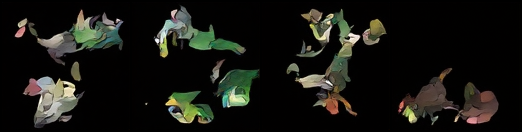
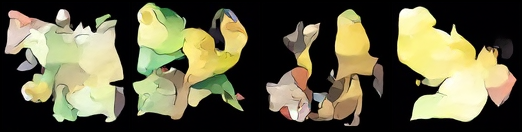
Results of more training

diff --git a/README.md b/README.md
@@ -5,7 +5,7 @@
 [![LightWeight](https://img.shields.io/badge/Size-41Ko-brightgreen?logo=feather&style=flat-square)](https://github.com)
 [![Pokémon](https://img.shields.io/badge/Pokémon-API-FFCB05?logo=pokemon&logoColor=white&style=flat-square)](https://pokeapi.co)
 
-Current results for ~150 Epoch on 1200 images
+Current results for ~260 Epoch on 1200 images
 <p align="center">
   <img src="./backend/samples/generated_samples.png" width="100%" alt="Chat demo" />
 </p>
